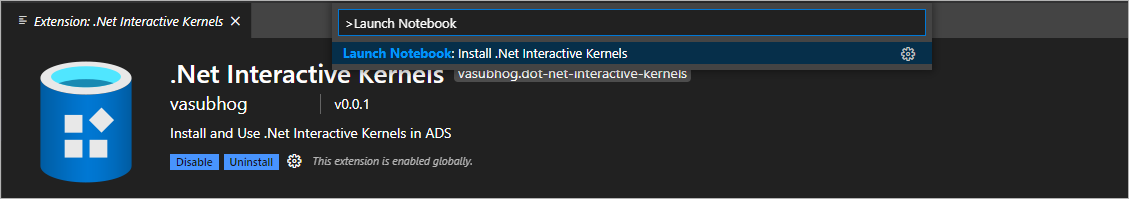
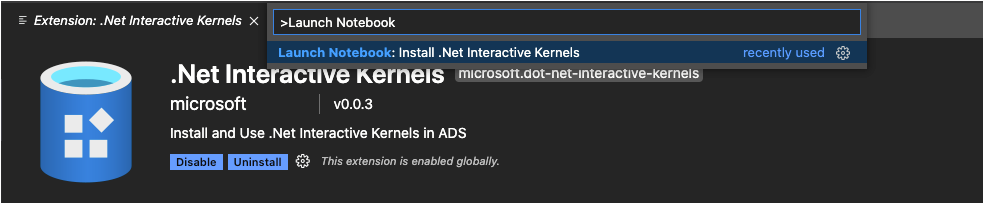
update publisher

Changed region(s): [[0.0, 0.0, 1.0, 0.9347], [0.0, 0.995, 1.0, 1.0], [0.2744, 0.4824, 0.3963, 0.5427]]

diff --git a/README.md b/README.md
@@ -1,15 +1,11 @@
 # Install .Net Interactive Kernels and Use them in Azure Data Studio
 
-![.Net Interactive Kernels](https://raw.githubusercontent.com/VasuBhog/.Net-Interactive-Kernels-ADS/main/content/media/PostNotebook.png)
+![.Net Interactive Kernels](https://raw.githubusercontent.com/microsoft/.Net-Interactive-Kernels-ADS/main/content/media/PostNotebook.png)
 
-# After Installing the Extension in Azure Data Studio
-## Use the Command **_Launch Notebook: Install .Net Interactive Kernels_**. 
+## After Installing the Extension in Azure Data Studio
 
-![Launch Palette](https://raw.githubusercontent.com/VasuBhog/.Net-Interactive-Kernels-ADS/main/content/media/LaunchCommand.png)
+### Use the Command **_Launch Notebook: Install .Net Interactive Kernels_**
 
-## This will open **_Install-Dot-Net-Kernels.ipynb_** which will help you download and install all components required for .Net Interactive to work in Azure Data Studio. 
+![Launch Palette](https://raw.githubusercontent.com/microsoft/.Net-Interactive-Kernels-ADS/main/content/media/LaunchCommand.png)
 
-
-Contact @ Vasu Bhog for any questions or concerns.
-
-Email: Vasu.Bhog@microsoft.com
+### This will open **_Install-Dot-Net-Kernels.ipynb_** which will help you download and install all components required for .Net Interactive to work in Azure Data Studio
